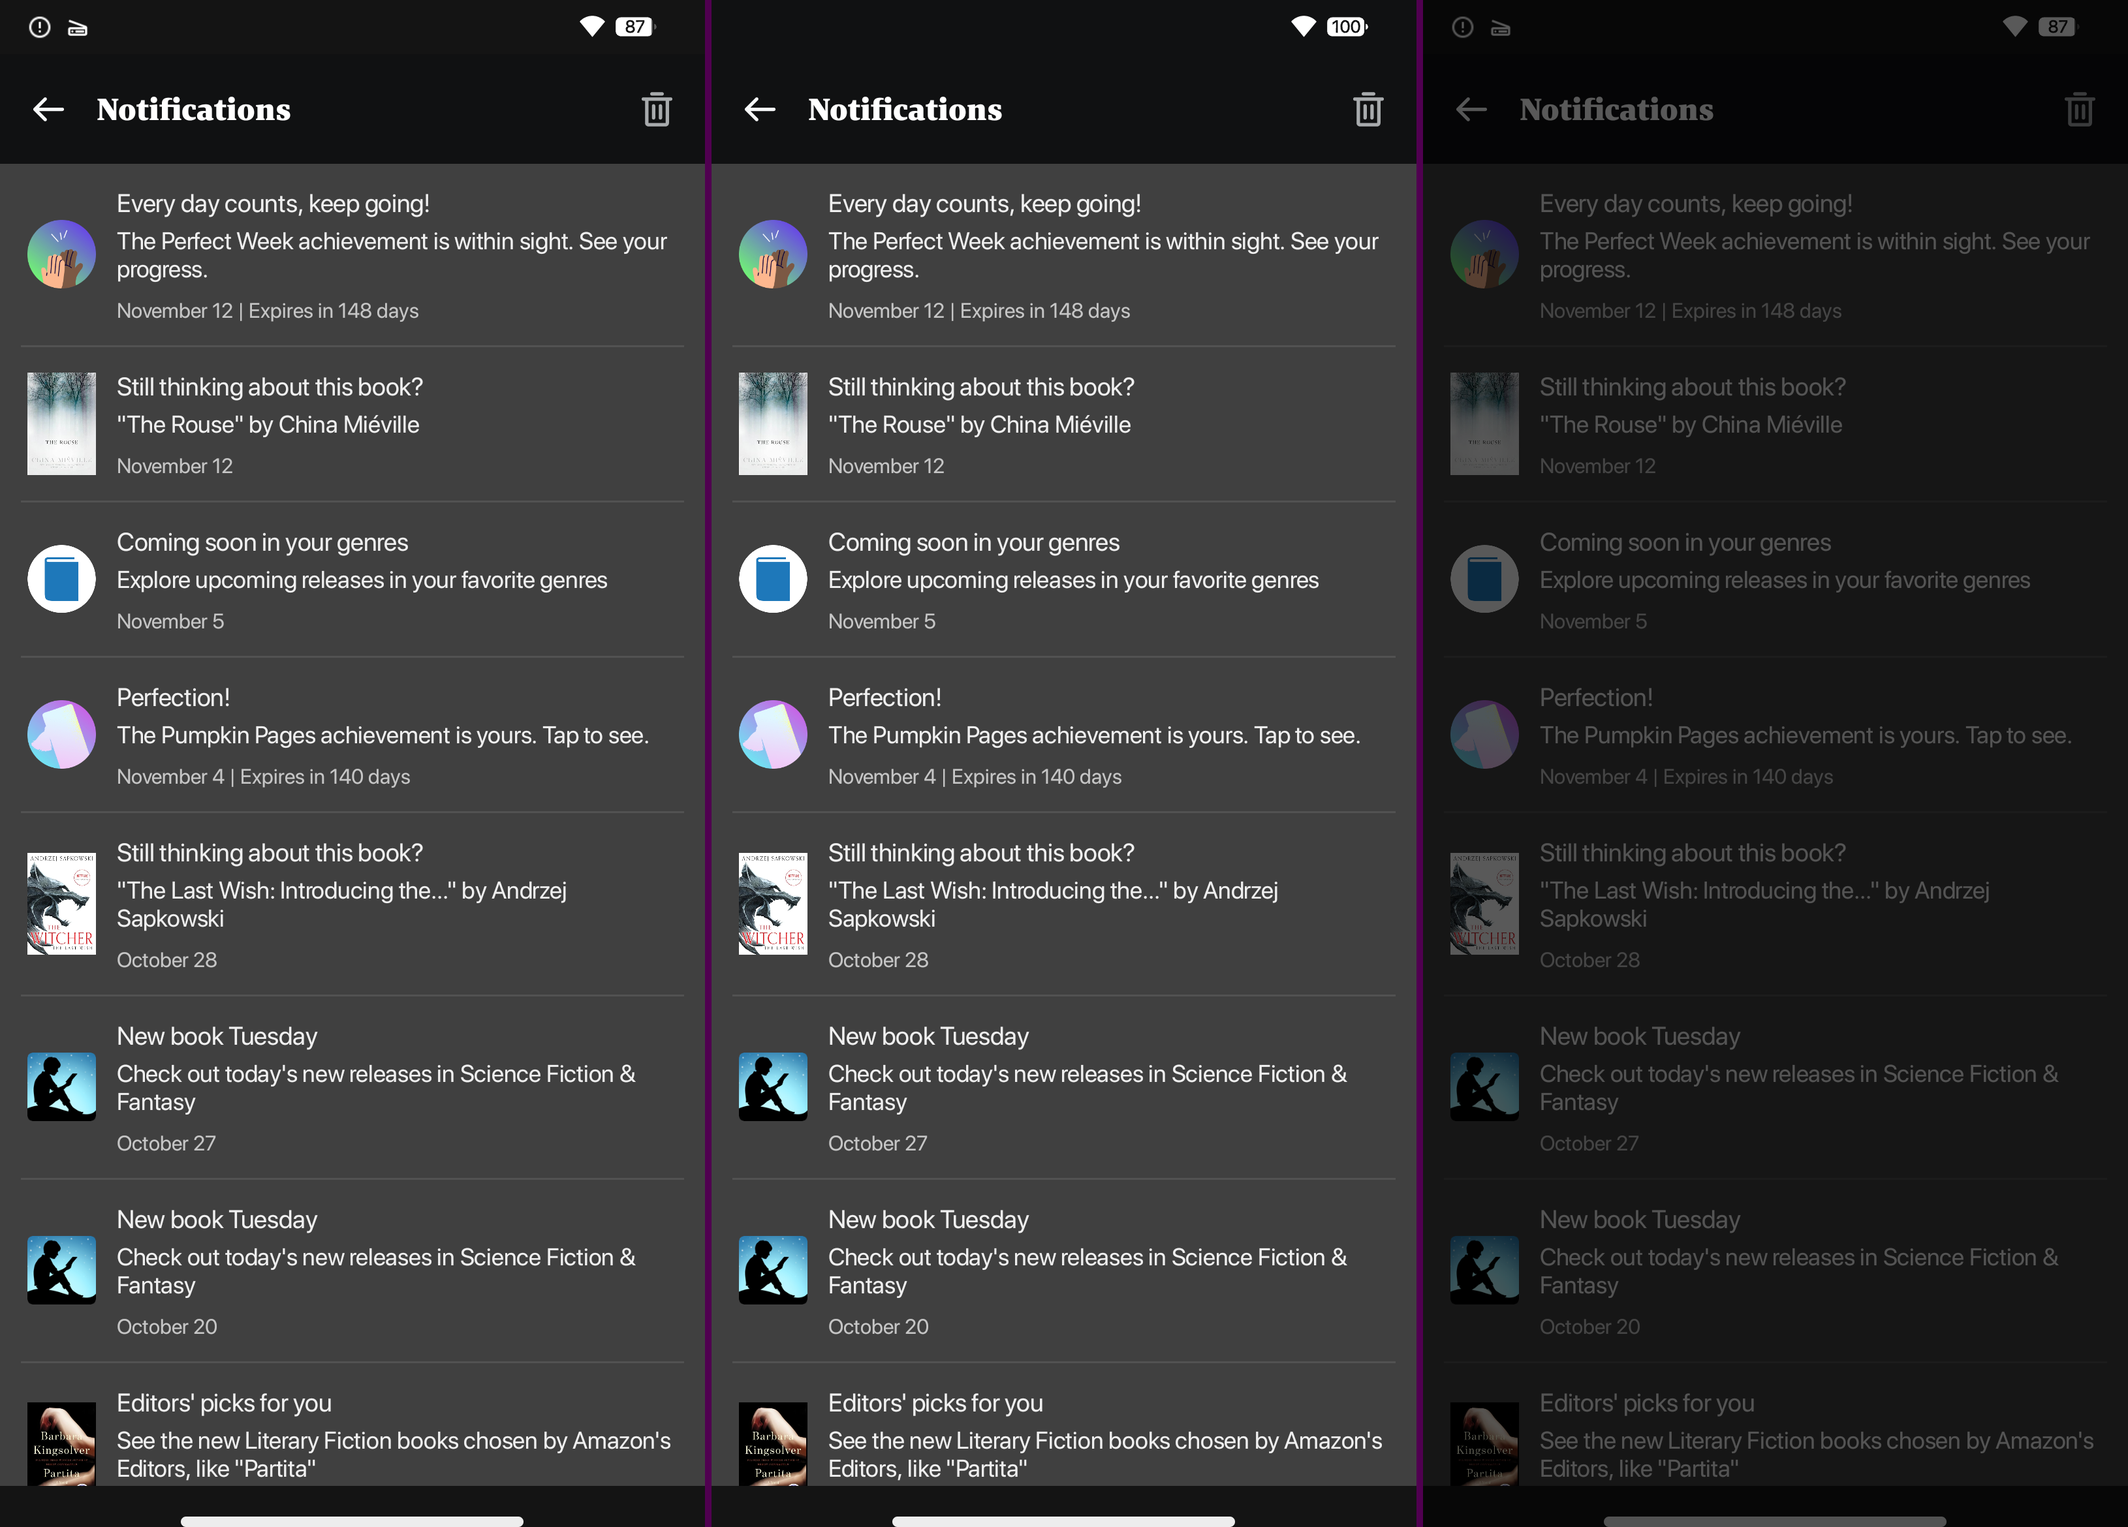
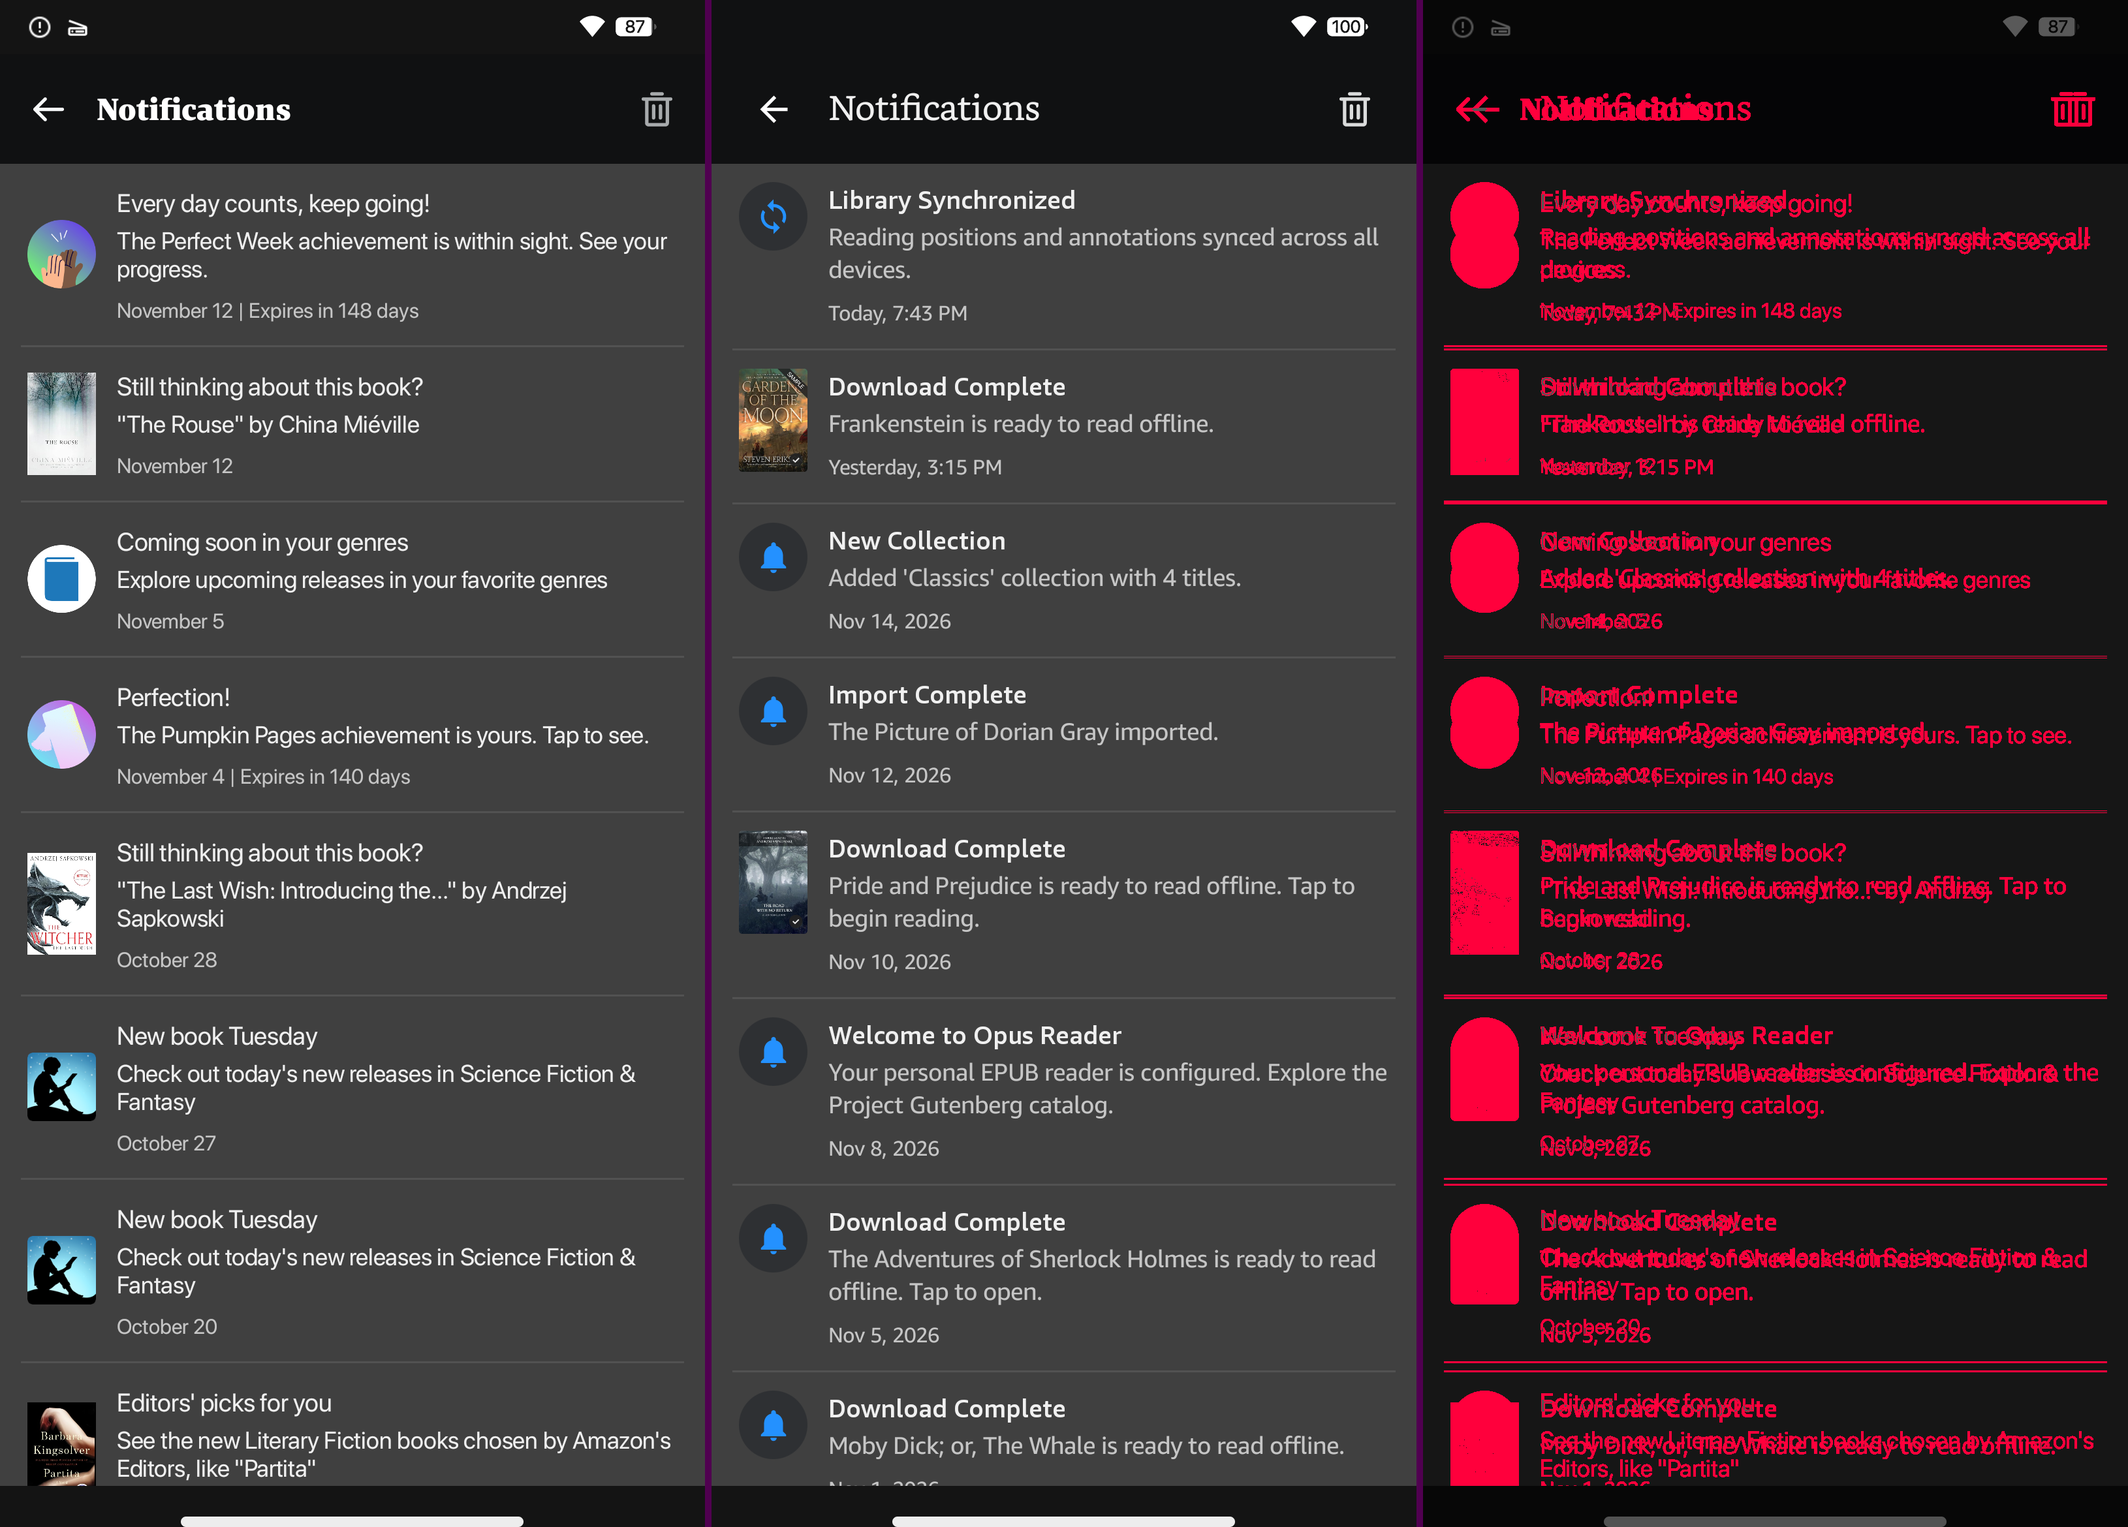
feat(real-ui): calibrate D09 Notifications screen and verify with honest harness

diff --git a/app/src/main/java/app/opusreader/ui/screens/NotificationsScreen.kt b/app/src/main/java/app/opusreader/ui/screens/NotificationsScreen.kt
@@ -12,12 +12,16 @@ import androidx.compose.foundation.layout.fillMaxWidth
 import androidx.compose.foundation.layout.height
 import androidx.compose.foundation.layout.padding
 import androidx.compose.foundation.layout.size
+import androidx.compose.foundation.layout.statusBarsPadding
+import androidx.compose.foundation.layout.width
 import androidx.compose.foundation.lazy.LazyColumn
 import androidx.compose.foundation.lazy.items
+import androidx.compose.foundation.shape.CircleShape
+import androidx.compose.foundation.shape.RoundedCornerShape
 import androidx.compose.material.icons.Icons
 import androidx.compose.material.icons.automirrored.filled.ArrowBack
-import androidx.compose.material.icons.filled.Close
-import androidx.compose.material.icons.filled.Delete
+import androidx.compose.material.icons.filled.Notifications
+import androidx.compose.material.icons.filled.Sync
 import androidx.compose.material3.HorizontalDivider
 import androidx.compose.material3.Icon
 import androidx.compose.material3.IconButton
@@ -25,6 +29,8 @@ import androidx.compose.material3.Text
 import androidx.compose.runtime.Composable
 import androidx.compose.ui.Alignment
 import androidx.compose.ui.Modifier
+import androidx.compose.ui.draw.clip
+import androidx.compose.ui.graphics.Color
 import androidx.compose.ui.layout.ContentScale
 import androidx.compose.ui.res.painterResource
 import androidx.compose.ui.text.font.FontWeight
@@ -34,15 +40,14 @@ import androidx.compose.ui.unit.sp
 import app.opusreader.R
 import app.opusreader.data.NotificationItem
 import app.opusreader.data.SampleBooks
-import app.opusreader.ui.components.OpusTopBar
-import app.opusreader.ui.theme.OpusBackground
-import app.opusreader.ui.theme.OpusDivider
+import app.opusreader.ui.theme.AmazonEmberFontFamily
+import app.opusreader.ui.theme.BookerlyFontFamily
 import app.opusreader.ui.theme.OpusReaderTheme
-import app.opusreader.ui.theme.OpusSpacing
-import app.opusreader.ui.theme.OpusTextPrimary
-import app.opusreader.ui.theme.OpusTextSecondary
-import app.opusreader.ui.theme.OpusTextTertiary
 import app.opusreader.ui.theme.refPx
+
+import androidx.compose.foundation.lazy.rememberLazyListState
+import androidx.compose.runtime.LaunchedEffect
+import app.opusreader.ui.theme.LocalFixtureTrigger
 
 @Composable
 fun NotificationsScreen(
@@ -53,28 +58,63 @@ fun NotificationsScreen(
     onItemClick: (NotificationItem) -> Unit = {},
     modifier: Modifier = Modifier
 ) {
+    val listState = rememberLazyListState()
+    val fixtureTrigger = LocalFixtureTrigger.current
+    LaunchedEffect(fixtureTrigger) {
+        listState.scrollToItem(0)
+    }
+
     Column(
         modifier = modifier
             .fillMaxSize()
-            .background(OpusBackground)
+            .background(Color(0xFF404040))
     ) {
-        OpusTopBar(
-            title = "Notifications",
-            navigationIcon = Icons.AutoMirrored.Filled.ArrowBack,
-            navigationIconDescription = "Back",
-            onNavigationClick = onBackClick,
-            actions = {
+        // Top bar container
+        Row(
+            modifier = Modifier
+                .fillMaxWidth()
+                .height(168.refPx)
+                .background(Color(0xFF101112))
+                .padding(horizontal = 12.dp),
+            verticalAlignment = Alignment.CenterVertically
+        ) {
+                IconButton(
+                    onClick = onBackClick,
+                    modifier = Modifier.size(48.dp)
+                ) {
+                    Icon(
+                        imageVector = Icons.AutoMirrored.Filled.ArrowBack,
+                        contentDescription = "Back",
+                        tint = Color.White,
+                        modifier = Modifier.size(24.dp)
+                    )
+                }
+
+                Spacer(modifier = Modifier.width(8.dp))
+
+                Text(
+                    text = "Notifications",
+                    fontFamily = BookerlyFontFamily,
+                    fontWeight = FontWeight.Normal,
+                    fontSize = 20.sp,
+                    color = Color(0xFFF0F0F0),
+                    modifier = Modifier.weight(1f)
+                )
+
                 if (notifications.isNotEmpty()) {
-                    IconButton(onClick = onClearAll) {
+                    IconButton(
+                        onClick = onClearAll,
+                        modifier = Modifier.size(48.dp)
+                    ) {
                         Icon(
-                            imageVector = Icons.Default.Delete,
+                            painter = painterResource(R.drawable.ic_trash),
                             contentDescription = "Clear all notifications",
-                            tint = OpusTextPrimary
+                            tint = Color(0xFFDBDCDC),
+                            modifier = Modifier.size(24.dp)
                         )
                     }
                 }
             }
-        )
 
         if (notifications.isEmpty()) {
             Box(
@@ -83,59 +123,91 @@ fun NotificationsScreen(
             ) {
                 Text(
                     text = "No notifications",
-                    color = OpusTextSecondary,
+                    fontFamily = AmazonEmberFontFamily,
+                    color = Color(0xFFC6C6C6),
                     fontSize = 15.sp
                 )
             }
         } else {
-            LazyColumn(modifier = Modifier.fillMaxSize()) {
+            LazyColumn(
+                state = listState,
+                modifier = Modifier
+                    .fillMaxSize()
+                    .background(Color(0xFF404040))
+            ) {
                 items(notifications, key = { it.id }) { item ->
                     Row(
                         modifier = Modifier
                             .fillMaxWidth()
                             .clickable { onItemClick(item) }
-                            .padding(horizontal = OpusSpacing.standard, vertical = OpusSpacing.medium),
-                        verticalAlignment = Alignment.CenterVertically
+                            .padding(horizontal = 16.dp, vertical = 10.5.dp),
+                        verticalAlignment = Alignment.Top
                     ) {
+                        if (item.coverDrawableRes != null && item.coverDrawableRes != 0) {
+                            Image(
+                                painter = painterResource(id = item.coverDrawableRes),
+                                contentDescription = null,
+                                modifier = Modifier
+                                    .width(40.dp)
+                                    .height(60.dp)
+                                    .clip(RoundedCornerShape(2.dp)),
+                                contentScale = ContentScale.Crop
+                            )
+                        } else {
+                            Box(
+                                modifier = Modifier
+                                    .size(40.dp)
+                                    .clip(CircleShape)
+                                    .background(Color(0xFF2E3033)),
+                                contentAlignment = Alignment.Center
+                            ) {
+                                Icon(
+                                    imageVector = if (item.title.contains("Sync", ignoreCase = true)) {
+                                        Icons.Default.Sync
+                                    } else {
+                                        Icons.Default.Notifications
+                                    },
+                                    contentDescription = null,
+                                    tint = Color(0xFF2491FF),
+                                    modifier = Modifier.size(22.dp)
+                                )
+                            }
+                        }
+
+                        Spacer(modifier = Modifier.width(12.dp))
+
                         Column(modifier = Modifier.weight(1f)) {
                             Text(
                                 text = item.title,
-                                color = OpusTextPrimary,
+                                fontFamily = AmazonEmberFontFamily,
+                                color = Color(0xFFF0F0F0),
                                 fontSize = 15.sp,
-                                fontWeight = FontWeight.SemiBold
+                                fontWeight = FontWeight.SemiBold,
+                                maxLines = 1
                             )
-                            Spacer(modifier = Modifier.height(OpusSpacing.xxsmall))
+                            Spacer(modifier = Modifier.height(2.dp))
                             Text(
                                 text = item.description,
-                                color = OpusTextSecondary,
-                                fontSize = 13.sp,
-                                lineHeight = 18.sp
+                                fontFamily = AmazonEmberFontFamily,
+                                color = Color(0xFFC6C6C6),
+                                fontSize = 14.sp,
+                                lineHeight = 19.sp,
+                                maxLines = 2
                             )
-                            Spacer(modifier = Modifier.height(OpusSpacing.xxsmall))
+                            Spacer(modifier = Modifier.height(6.dp))
                             Text(
                                 text = item.dateText,
-                                color = OpusTextTertiary,
-                                fontSize = 11.sp
-                            )
-                        }
-
-                        IconButton(
-                            onClick = { onDeleteNotification(item.id) },
-                            modifier = Modifier.size(36.dp)
-                        ) {
-                            Icon(
-                                imageVector = Icons.Default.Close,
-                                contentDescription = "Delete notification",
-                                tint = OpusTextSecondary,
-                                modifier = Modifier.size(18.dp)
+                                fontFamily = AmazonEmberFontFamily,
+                                color = Color(0xFFC6C6C6),
+                                fontSize = 12.sp
                             )
                         }
                     }
 
                     HorizontalDivider(
-                        color = OpusDivider.copy(alpha = 0.5f),
-                        thickness = 0.5.dp,
-                        modifier = Modifier.padding(horizontal = OpusSpacing.standard)
+                        color = Color(0xFF525252),
+                        thickness = 3.refPx,
+                        modifier = Modifier.padding(horizontal = 32.refPx)
                     )
                 }
             }
@@ -143,7 +215,7 @@ fun NotificationsScreen(
     }
 }
 
-@Preview(name = "09 Notifications Screen Preview", showBackground = true, backgroundColor = 0xFF101112)
+@Preview(name = "09 Notifications Screen Preview", showBackground = true, backgroundColor = 0xFF404040)
 @Composable
 fun NotificationsScreenPreview() {
     OpusReaderTheme {

diff --git a/app/src/main/java/app/opusreader/data/Book.kt b/app/src/main/java/app/opusreader/data/Book.kt
@@ -53,7 +53,9 @@ data class NotificationItem(
     val title: String,
     val description: String,
     val dateText: String,
-    val isRead: Boolean = false
+    val isRead: Boolean = false,
+    val coverDrawableRes: Int? = null,
+    val isAvatar: Boolean = false
 )
 
 object SampleBooks {
@@ -267,21 +269,64 @@ object SampleBooks {
             title = "Library Synchronized",
             description = "Reading positions and annotations synced across all devices.",
             dateText = "Today, 7:43 PM",
-            isRead = true
+            isRead = true,
+            isAvatar = true
         ),
         NotificationItem(
             id = "notif_2",
             title = "Download Complete",
-            description = "Gardens of the Moon (Book One) is ready to read offline.",
+            description = "Frankenstein is ready to read offline.",
             dateText = "Yesterday, 3:15 PM",
-            isRead = true
+            isRead = true,
+            coverDrawableRes = app.opusreader.R.drawable.cover_0
         ),
         NotificationItem(
             id = "notif_3",
-            title = "Welcome to Opus Reader",
-            description = "Your personal EPUB reader is configured and ready.",
+            title = "New Collection",
+            description = "Added 'Classics' collection with 4 titles.",
             dateText = "Nov 14, 2026",
-            isRead = false
+            isRead = true,
+            isAvatar = true
+        ),
+        NotificationItem(
+            id = "notif_4",
+            title = "Import Complete",
+            description = "The Picture of Dorian Gray imported.",
+            dateText = "Nov 12, 2026",
+            isRead = true,
+            isAvatar = true
+        ),
+        NotificationItem(
+            id = "notif_5",
+            title = "Download Complete",
+            description = "Pride and Prejudice is ready to read offline. Tap to begin reading.",
+            dateText = "Nov 10, 2026",
+            isRead = true,
+            coverDrawableRes = app.opusreader.R.drawable.cover_2
+        ),
+        NotificationItem(
+            id = "notif_6",
+            title = "Welcome to Opus Reader",
+            description = "Your personal EPUB reader is configured. Explore the Project Gutenberg catalog.",
+            dateText = "Nov 8, 2026",
+            isRead = false,
+            isAvatar = true
+        ),
+        NotificationItem(
+            id = "notif_7",
+            title = "Download Complete",
+            description = "The Adventures of Sherlock Holmes is ready to read offline. Tap to open.",
+            dateText = "Nov 5, 2026",
+            isRead = true,
+            isAvatar = true
+        ),
+        NotificationItem(
+            id = "notif_8",
+            title = "Download Complete",
+            description = "Moby Dick; or, The Whale is ready to read offline.",
+            dateText = "Nov 1, 2026",
+            isRead = true,
+            isAvatar = true
         )
     )
 }

diff --git a/docs/FIDELITY_REPORT.md b/docs/FIDELITY_REPORT.md
@@ -8,7 +8,7 @@ Thresholds per screen (outside masks):
 
 | ID | Screen Name | Reference File | Diff % | Worst Offset (px) | Liveness | Scroll | Status | Notes |
 |---|---|---|---|---|---|---|---|---|
-| D08 | Collections (empty) | `docs/reference/08_collections.png` | 3.11% | 21 px | PASS | N/A | FAIL | bad: 3.11%, dy: 21px |
+| D09 | Notifications | `docs/reference/09_notifications.png` | 15.06% | 70 px | PASS | PASS | FAIL | bad: 15.06%, dy: 70px |
 
 ## Summary
 - **Total canonical screens evaluated**: 1
